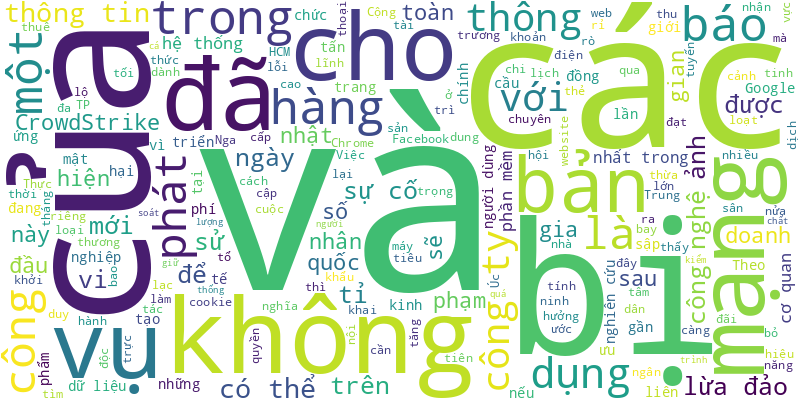
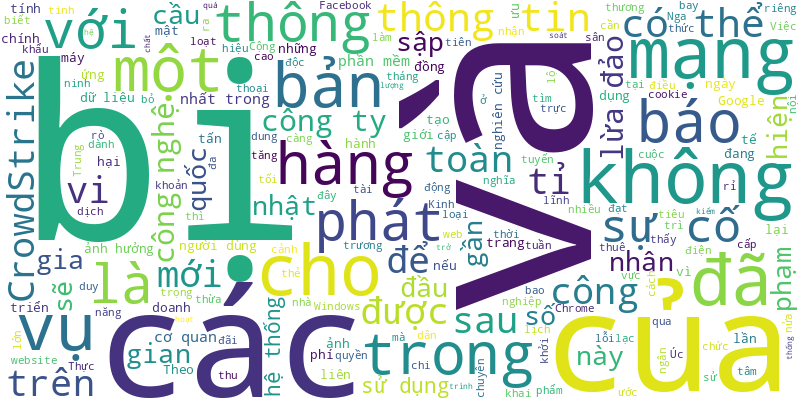
🍀 = 10%

diff --git a/README.md b/README.md
@@ -1,6 +1,11 @@
 # Tuoi Tre RSS 
 
 ## Giáo dục 
+- Với những bạn trẻ, đại học không chỉ có giảng đường đào tạo kiến thức hay kỹ năng nghề nghiệp mà phải có một chân trời rực rỡ - nơi có đa dạng hoạt động ngoại khóa hấp dẫn để thả mình và phát triển kỹ năng.
+- Từ năm học 2024 - 2025, trường này sẽ cấp học bổng toàn phần đối với sinh viên là con, cháu (cả cháu nội và cháu ngoại) của thương binh, liệt sĩ các thời kỳ.
+- Công an quận 1, TP.HCM vừa ra quyết định bắt tạm giam cựu kế toán Trường THPT Ernst Thälmann (quận 1, TP.HCM) về hành vi lừa đảo chiếm đoạt tài sản.
+- Mong muốn tận dụng phế phẩm nông nghiệp tạo ra sản phẩm thân thiện với môi trường, hai học sinh Trường THPT Hồng Ngự 3 (Đồng Tháp) đã làm ra vải sinh học từ vỏ quýt.
+- Các nhà khoa học này bị cấm tham gia các dự án nghiên cứu do Chính phủ Trung Quốc tài trợ trong tối đa 7 năm và bị ghi tên vào cơ sở dữ liệu gian lận học thuật quốc gia.
 - Nhiều thí sinh có kết quả học tập khá tốt đã chọn theo học nghề tại các trường cao đẳng, trung cấp.
 - Thời điểm thí sinh tham gia đăng ký nguyện vọng xét tuyển theo quy định, nhiều trường đại học, cao đẳng triển khai nhiều hoạt động tương tác để thí sinh tham gia tìm hiểu, tham quan, lắng nghe.
 - Ban tuyển sinh quân sự Bộ Quốc phòng thông báo điểm sàn nhận hồ sơ xét tuyển đại học, cao đẳng các trường quân đội năm 2024 dao động từ 14 - 24 điểm.
@@ -26,45 +31,41 @@
 - Bằng tất cả lòng biết ơn, sự kính trọng, bức chân dung Tổng bí thư Nguyễn Phú Trọng được vẽ bằng phấn màu của thầy giáo ở Hà Tĩnh đã gây xúc động cho người xem.
 - Học sinh ở đảo Cù Lao Xanh sẽ được hỗ trợ tiền học phí, tiền ăn, tiền thuê trọ, chi phí học tập và tiền đò khi đi học tại Quy Nhơn.
 - Sở Giáo dục và Đào tạo tỉnh Khánh Hòa vừa có thông báo bổ sung về điểm chuẩn tuyển sinh lớp 10 năm học 2024-2025.
-- Ngành sư phạm toán có điểm sàn 24,5 điểm, kế đến là sư phạm tiếng Anh 23 điểm.
-- Trường đại học Y Hà Nội công bố điểm sàn xét điểm thi tốt nghiệp THPT cao nhất 24 điểm, Học viện Ngân hàng điểm sàn bình quân 7 điểm/môn.
-- Nhiều chính sách đang thay đổi nhanh chóng tại các thị trường du học lớn khiến học sinh buộc phải lên kế hoạch và chuẩn bị hồ sơ du học từ sớm.
-- 6 giảng viên từ 3 trường đại học ở Thái Lan bị sa thải vì gian lận bài báo khoa học, đối mặt cáo buộc hình sự.
-- Thí sinh xét điểm thi tốt nghiệp THPT vào Học viện Ngoại giao năm nay bằng khối C (văn, sử, địa) phải có điểm sàn xét tuyển từ 23,5 điểm.
 ![Edu](Edu.png)
 ## Thời Sự 
-- Sở Xây dựng TP.HCM vừa trình UBND TP đề cương quản lý, hỗ trợ nhà ở riêng lẻ có mục đích cho thuê trọ tại TP.HCM.
-- Sáng sớm 26-7, thêm vụ cháy xe điện xảy ra tại thành phố Hội An, Quảng Nam. Trong ít phút, 21 xe điện bị thiêu rụi.
-- Trong ngày có rất nhiều đoàn đại biểu các cơ quan Trung ương, bộ, ngành, tỉnh, thành phố, tổ chức, đơn vị... đã vào kính viếng Tổng Bí thư Nguyễn Phú Trọng.
-- Trong chuyến thăm và làm việc với huyện A Lưới (tỉnh Thừa Thiên Huế) vào năm 2014, Tổng Bí thư Nguyễn Phú Trọng đã chỉ đạo dành nguồn lực xây cho bà con nghèo ở xã Hồng Hạ hai công trình đặc biệt.
-- Sáng 25-7, lễ viếng Tổng Bí thư Nguyễn Phú Trọng đã được tổ chức theo nghi thức Quốc tang tại Nhà tang lễ quốc gia; quê nhà xã Đông Hội, huyện Đông Anh, TP Hà Nội và Hội trường Thống Nhất, TP.HCM.
-- Ngay trong ngày đầu tiên Quốc tang 25-7, lễ viếng Tổng Bí thư Nguyễn Phú Trọng tại Nhà tang lễ quốc gia ở Hà Nội đã chứng kiến nhiều khoảnh khắc xúc động đến từ các đoàn khách quốc tế.
-- Trong lúc đào giếng tưới cà phê, mối nối dây điện bị hở khiến hai thợ đào giếng bị điện giật tử vong tại chỗ.
-- Từ sáng sớm 26-7, hàng ngàn người dân xếp hàng chờ vào viếng Tổng Bí thư Nguyễn Phú Trọng tại Nhà tang lễ Quốc gia, Hà Nội và Hội trường Thống Nhất, TP.HCM.
-- Sinh thời, Tổng Bí thư Nguyễn Phú Trọng dành nhiều tình cảm, quan tâm văn nghệ sĩ cũng như chỉ đạo việc phát triển công nghiệp văn hóa ở Việt Nam.
-- Một số tin tức đáng chú ý: Giá bán lên gần 500 triệu đồng/m2, giao dịch nhà liền thổ TP.HCM 'ì ạch'; Lợi nhuận đại gia bất động sản tăng trở lại; Nhiều tổ chức nâng dự báo tăng trưởng GDP năm nay của Việt Nam...
-- Bạn nghĩ gì mỗi lần nhìn thấy các bạn trẻ, các bác hưu trí đi bóc gỡ các mẩu quảng cáo ở bờ tường, cột điện? Tôi thấy phẫn nộ thật sự những người dán quảng cáo kiểu này.
-- Hôm nay thời tiết Bắc Bộ giảm hẳn mưa vào ban ngày, nhiều nơi có nắng nóng, chiều tối mưa rào, Nam Bộ trời nhiều mây, mưa rào tới mưa to.
-- Mưa lớn kèm theo lốc xoáy khiến hàng loạt trụ điện dọc đường ĐT 741 ngã đổ xuống đường gây mất điện diện rộng.
-- Bé trai 3 tuổi từ trường mầm non tư thục ở Khánh Hòa về nhà thì lên cơn co giật, nôn ói được gia đình đưa vào bệnh viện cấp cứu, sau đó được chuyển vào điều trị tại Bệnh viện Nhi đồng TP.HCM nhưng tiên lượng rất nặng.
-- Trời Hà Nội đang nắng bỏng rát bỗng chốc đổ cơn mưa lớn, lực lượng tình nguyện viên thủ đô vẫn bám các nút giao, hỗ trợ phân luồng và phục vụ nhân dân vào viếng Tổng Bí thư Nguyễn Phú Trọng.
-- Đang đi giao hàng qua cầu Thạch Bích, TP Quảng Ngãi, thấy một phụ nữ dừng xe nhảy xuống sông Trà Khúc tự tử, không chút do dự, chàng shipper cũng dừng xe nhảy theo, cố hết sức cứu người.
-- Dự án đường liên tuyến kết nối vùng N8-787B-789 được phê duyệt đầu tư năm 2021 với tổng vốn 3.416 tỉ đồng. Hiện Tây Ninh đang nỗ lực đưa dự án về đích, giúp người dân đi lại thuận lợi hơn.
-- Liên quan việc Tòa án nhân dân tỉnh Đồng Nai có quyết định mở thủ tục phá sản, Công ty LDG đã thông tin về vụ việc và khẳng định đang đề nghị tòa xem xét hủy bỏ quyết định này.
-- Trận lũ sáng 24-7 tràn về xã Tông Cọ (Thuận Châu, Sơn La) quá nhanh, người dân dỡ nóc nhà leo lên mái chờ cứu.
-- Trong ngày Quốc tang, hàng ngàn người dân từ khắp mọi miền Tổ quốc đã về Hà Nội để viếng Tổng Bí thư Nguyễn Phú Trọng; cờ rủ được treo khắp nơi, màn hình LED chiếu tư liệu về Tổng Bí thư để tưởng nhớ những đóng góp to lớn của ông cho đất nước.
-- Cơ quan chức năng vừa có buổi kiểm tra quán ăn tại xã Vạn Thắng (huyện Vạn Ninh, Khánh Hòa) bị khách tố “chặt chém”, nhưng trong ngày kiểm tra chủ cơ sở vắng mặt.
-- Tại cuộc gặp Chủ tịch nước Tô Lâm, Chủ tịch Đảng Nhân dân Campuchia, Chủ tịch Thượng viện Campuchia Hun Sen khẳng định nước này sẽ luôn giữ gìn và vun đắp mối quan hệ hai bên ngày càng phát triển.
-- Liên quan vụ hơn 60 công nhân nhập viện nghi ngộ độc sau bữa cơm trưa, Sở Y tế Bình Phước đề nghị tạm đình chỉ cơ sở bán suất ăn cho công nhân.
-- Trong tương lai, TP Cam Ranh (tỉnh Khánh Hòa) sẽ là trung tâm kinh tế, văn hóa, giáo dục, khoa học kỹ thuật của khu vực phía nam tỉnh Khánh Hòa và là đô thị du lịch - logistics của khu vực này.
-- Trường đại học Nha Trang (tỉnh Khánh Hòa) nhập sai mức thu học phí tín chỉ của hàng chục sinh viên sắp tốt nghiệp. Sau khi phát hiện sai sót, trường yêu cầu sinh viên đóng thêm số tiền còn thiếu, có sinh viên phải đóng bổ sung đến hơn 15 triệu đồng.
-- Ba cầu trên đường tỉnh 827E qua sông Cần Giuộc, sông Vàm Cỏ Đông, sông Vàm Cỏ Tây sẽ hình thành tuyến đường xuyên suốt từ TP.HCM qua Long An đến Tiền Giang.
-- Dự án cao tốc Cần Thơ - Cà Mau có chiều dài tuyến chính hơn 110km qua địa bàn 5 tỉnh và thành phố, với tổng mức đầu tư hơn 27.500 tỉ đồng đang dần hình thành và dự kiến hoàn thành vào cuối năm tới.
-- Khán phòng nơi viết sổ tang Tổng Bí thư Nguyễn Phú Trọng có nhiều người trẻ lưu lại, xúc động ghi chia sẻ với người lãnh đạo đáng kính, "thần tượng" như một số bạn ghi trong sổ tang. Có thời điểm 24 bàn ghi sổ tang đều là các bạn trẻ cặm cụi viết.
-- Sau nhiều ngày nghị án, Tòa án nhân dân tỉnh An Giang tuyên phạt hai cựu phó chủ tịch UBND huyện Chợ Mới cùng mức án 11 năm tù về tội tham ô tài sản.
-- Dự báo những ngày cuối tháng 7, ở miền Bắc sẽ xuất hiện một đợt mưa vừa, mưa to trên diện rộng.
+- Sau trận lũ quét kinh hoàng vào đêm 24 và rạng sáng 25-7, người dân xã Mường Pồn, huyện Điện Biên (tỉnh Điện Biên) chưa hết bàng hoàng.
+- Công an tỉnh Thái Nguyên xử phạt chị Nguyễn Thị N., người tung tin đồn cô gái lây HIV cho nhiều nam giới tại Khu công nghiệp Samsung Thái Nguyên.
+- Lạc nội mạc tử cung gây ảnh hưởng rất lớn đến chất lượng cuộc sống của phụ nữ trong độ tuổi sinh đẻ, cũng như khả năng làm mẹ.
+- Tròn 70 năm kể từ chiến thắng Đak Pơ, nơi chôn cất 147 liệt sĩ Trung đoàn 96 sau trận đánh bi hùng tới nay vẫn còn là bí ẩn trong nỗi đau khôn nguôi của gia đình và đồng đội.
+- Những ngày tháng 7, trời biên giới đang nắng bỏng rát bỗng chốc mưa ào ào trút xuống. Bất kể trời nắng hay mưa, đêm hay ngày, những người lính biên phòng vẫn cần mẫn, thầm lặng canh giấc ngủ cho các anh hùng liệt sĩ.
+- Quán cơm Bắc Trung Nam (nằm trên quốc lộ 1, xã Vạn Thắng, huyện Vạn Ninh, Khánh Hòa) bị khách tố 'chặt chém' đã bị cơ quan chức năng xử phạt 1,5 triệu đồng.
+- Kết quả phân tích mẫu nước có một số thông số vượt quy chuẩn cho phép là một trong các nguồn đã làm ô nhiễm nguồn nước mặt khe suối, khiến cá suối chết ở huyện Quỳ Hợp, tỉnh Nghệ An.
+- Tin tức đáng chú ý: Phó thủ tướng Trần Lưu Quang vừa ký ban hành kế hoạch kiểm soát quyền lực, phòng chống tham nhũng trong điều tra, truy tố, xét xử; Sẽ tổng rà soát các "điểm đen", "điểm tiềm ẩn" tai nạn giao thông...
+- Ngày 26-7, gia đình, lãnh đạo Đảng, Nhà nước, bạn bè quốc tế, nhân dân đã tiễn đưa linh cữu Tổng Bí thư Nguyễn Phú Trọng về với đất mẹ tại nghĩa trang Mai Dịch (Hà Nội).
+- Hôm nay 27-7, thời tiết Bắc Bộ và Trung Bộ nắng nóng gay gắt, còn Nam Bộ, Tây Nguyên mưa rào đến mưa to về chiều tối.
+- Số hóa bia mộ liệt sĩ nghĩa trang liệt sĩ TP.HCM (giai đoạn 2) và thu thập, số hóa thông tin chiến sĩ TP.HCM tại các nghĩa trang liệt sĩ trong cả nước là công trình từ tấm lòng tri ân thế hệ cha anh.
+- Đến thăm bà Bùi Thị Vân (75 tuổi), người hoạt động kháng chiến bị nhiễm chất độc hóa học, Chủ tịch UBND TP.HCM Phan Văn Mãi ân cần thăm hỏi sức khỏe, gửi lời động viên và kính chúc bà luôn sống vui khỏe, mãi là tấm gương cho thế hệ sau.
+- Nhiều người bày tỏ sự kính trọng, khâm phục với Phu nhân Ngô Thị Mận và các thành viên gia đình trong hai ngày diễn ra lễ Quốc tang Tổng Bí thư Nguyễn Phú Trọng.
+- Hành khách Nguyễn Thanh Ph. bị Cục Hàng không Việt Nam cấm bay một năm vì tung tin có lựu đạn trong vali khiến chuyến bay từ Đà Nẵng đi TP.HCM bị chậm 50 phút.
+- Bộ trưởng Bộ Công an Lương Tam Quang đã có thư khen Cục An ninh mạng và phòng chống tội phạm sử dụng công nghệ cao, Công an tỉnh Phú Yên triệt phá đường dây cá độ bóng đá qua mạng 1.000 tỉ đồng.
+- Tuổi Trẻ Online xin được chia sẻ những khoảnh khắc đầy cảm xúc trong hai ngày Quốc tang Tổng Bí thư Nguyễn Phú Trọng (25 và 26-7).
+- Huyện Hóc Môn (TP.HCM) dự kiến có bảng giá đất tăng cao nhất (gấp 50 lần) so với giá hiện tại kể từ ngày 1-8. Một người dân sốc khi dự kiến phải đóng đến 17 tỉ đồng để làm sổ.
+- Dự báo từ 28 đến 31-7, ở miền Bắc xảy ra một đợt mưa lớn, có nơi mưa trên 250mm, nguy cơ xảy ra lũ quét, sạt lở đất và ngập lụt.
+- Một căn nhà bị sập và tám căn nhà của người dân ở xã Vĩnh Trạch, thành phố Bạc Liêu bị tốc mái do mưa lớn kém lốc xoáy vào sáng cùng ngày.
+- Chia sẻ về việc đuổi theo chiếc xe máy để cứu bé trai 2 tuổi tím tái, ngưng thở vì đuối nước, bác sĩ Nhân Hậu nói rằng đó là thiên chức cao quý của những người thầy thuốc.
+- Sau khoảng 30 phút khởi hành, tàu cao tốc Phú Quốc Express 9 chạy đến khu vực vùng biển huyện Kiên Hải (Kiên Giang) bị vướng rác vào chân vịt nên đã phải quay lại đất liền.
+- Ban Lễ tang Nhà nước và gia đình trân trọng cảm ơn tình cảm đặc biệt của đồng bào, đồng chí, chiến sĩ cả nước, đồng bào ta ở nước ngoài và bạn bè quốc tế đối với Tổng Bí thư Nguyễn Phú Trọng.
+- Quảng Ngãi đã hoàn thành giải phóng mặt bằng 100%, bàn giao cho đơn vị thi công, giờ phải gỡ vướng đường điện, cáp viễn thông để đẩy tiến độ thi công cao tốc Quảng Ngãi - Hoài Nhơn.
+- Không phân loại rác sinh hoạt, không sử dụng bao bì chứa chất thải rắn sinh hoạt sẽ bị xử phạt từ 500.000 đến 1 triệu đồng.
+- Sau cuộc đối thoại của bí thư và chủ tịch tỉnh Quảng Nam, 2 doanh nghiệp là Công ty CP đầu tư Hoàng Nhất Nam (Đà Nẵng) và Công ty CP Bách Đạt An trong vụ tranh chấp bất động sản lớn nhất miền Trung đã đàm phán.
+- Theo các chuyên gia và sở ngành, việc mở cửa cho các doanh nghiệp tham gia xe buýt hai tầng sẽ tạo điều kiện cạnh tranh, nâng cao chất lượng.
+- Lời điếu do Chủ tịch nước Tô Lâm - Ủy viên Bộ Chính trị, Trưởng Ban Lễ tang - đọc tại Lễ Truy điệu Tổng Bí thư Nguyễn Phú Trọng ngày 26-7.
+- 'Tôi đưa con đến đây với mong muốn con biết rằng khi sống trong một đất nước, mình cần có sự đóng góp cho xã hội và Tổng Bí thư Nguyễn Phú Trọng là một tấm gương sáng ngời để thế hệ trẻ noi gương'.
+- Sáng 26-7, UBND TP Đà Nẵng tổ chức diễn tập ứng phó sự cố bức xạ, sự cố hạt nhân cấp thành phố tại Trung tâm Nghiên cứu và triển khai công nghệ bức xạ Vinagamma Đà Nẵng.
+- Công an huyện Đắk Mil (Đắk Nông) đã tạm giữ tài xế xe container lao vào nhà dân khiến ba người tử vong.
 ![New](News.png)
 ## Nhịp sống số 
+- Gần một tuần sau sự cố sập mạng toàn cầu, CrowdStrike cho biết 97% máy tính sử dụng hệ điều hành Windows bị ảnh hưởng đã hoạt động trở lại.
 - CrowdStrike thừa nhận sự cố sập hệ thống vi tính toàn cầu là do lỗi trong quá trình kiểm soát chất lượng các bản cập nhật phần mềm của công ty này.
 - Việc Google giữ cookie đồng nghĩa dữ liệu cá nhân của 3 tỉ người dùng Chrome vẫn đang bị các trang mạng theo dõi.
 - Thay vì loại bỏ cookie của bên thứ ba, Google sẽ giới thiệu trải nghiệm mới trên Chrome.
@@ -94,5 +95,4 @@
 - Theo các chuyên gia quốc tế, 46% nội dung độc hại trên các trang web vi phạm bản quyền là lừa đảo, nếu thẻ tín dụng được sử dụng để đăng ký thuê bao vi phạm bản quyền trực tuyến thì khả năng bị gian lận thẻ cao gấp 4 lần.
 - Người dùng có thể sử dụng công cụ ChatGPT trên các thiết bị iPhone, iPad, Macbook để tạo nội dung văn bản và hình ảnh mà không cần tải ứng dụng riêng.
 - Lần đầu tiên, một cuộc thi được dành riêng cho các tác phẩm ảnh và video dành cho lĩnh vực công nghệ.
-- Ngày 15-5, Công ty TNHH Sản phẩm công nghiệp Toshiba Asia đã tổ chức ngày hội đối tác kinh doanh ‘Business Partners Day 2024’ tại GEM Center, TP.HCM.
 ![life](Life.png)
